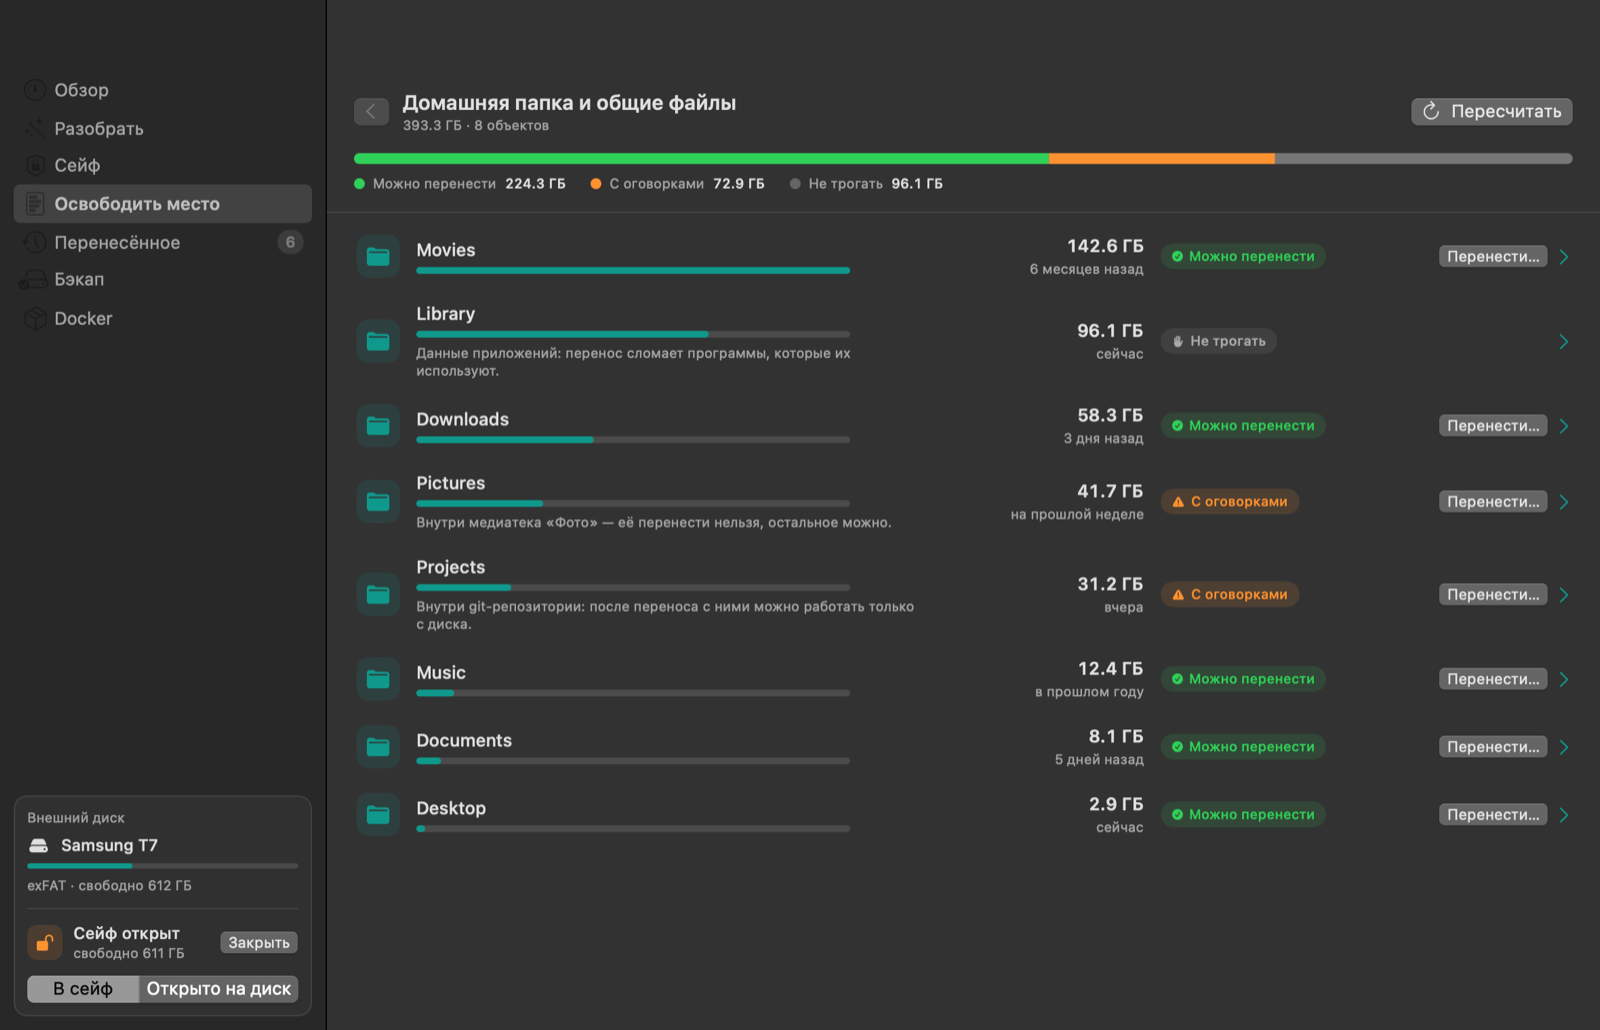
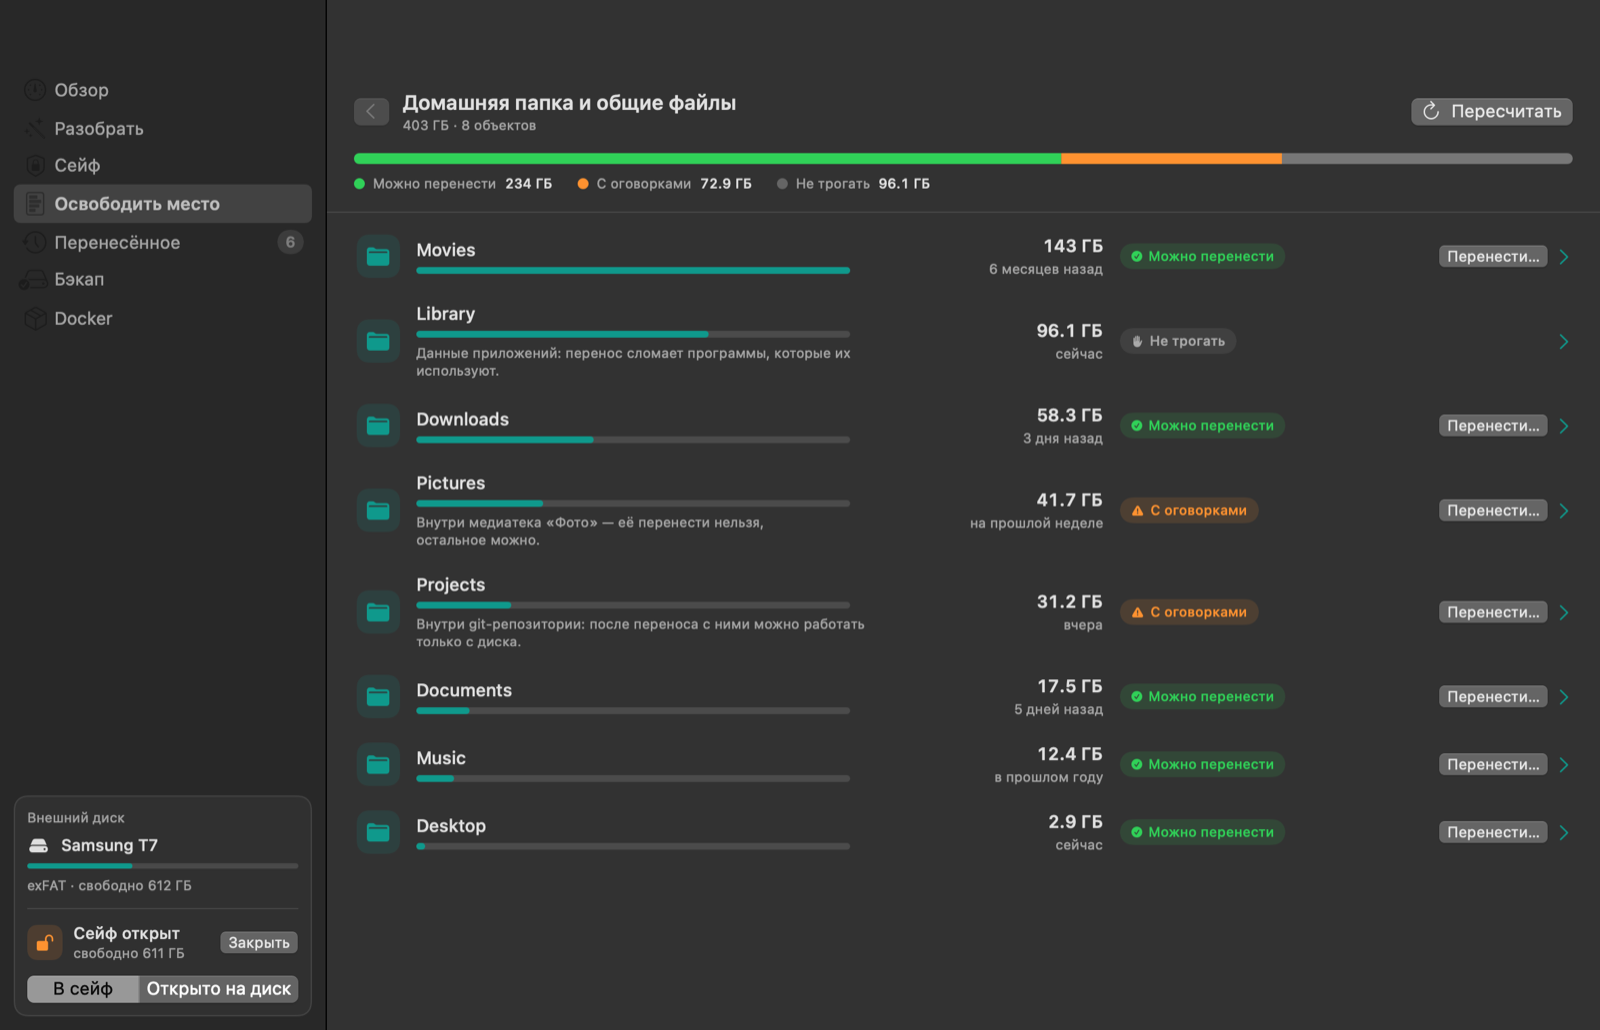
Размеры с одной точностью: до 100 — один знак, от 100 — целые; исключение для имён-идентификаторов в ~/Library — только в папках приложений; снимки

diff --git a/Sources/OffloadCore/Format.swift b/Sources/OffloadCore/Format.swift
@@ -1,13 +1,38 @@
 import Foundation
 
 public enum Format {
-    public static func bytes(_ count: Int64) -> String {
-        ByteCountFormatter.string(fromByteCount: count, countStyle: .file)
-    }
+    /// Размер на диске — десятичными единицами, как в Finder: 24.5 ГБ.
+    ///
+    /// Точность везде одна: до 100 — один знак после точки, от 100 — целые. ByteCountFormatter
+    /// показывал рядом «4.81 ГБ», «24.5 ГБ» и «168.01 ГБ», и суммы на одном экране читались вразнобой.
+    public static func bytes(_ count: Int64) -> String { size(count, base: 1000) }
 
-    /// Оперативная память считается двоичными единицами: 18 ГБ, а не 19,33.
-    public static func memory(_ count: UInt64) -> String {
-        ByteCountFormatter.string(fromByteCount: Int64(clamping: count), countStyle: .memory)
+    /// Оперативная память считается двоичными единицами: 18 ГБ, а не 19.3.
+    public static func memory(_ count: UInt64) -> String { size(Int64(clamping: count), base: 1024) }
+
+    static let units = ["Б", "КБ", "МБ", "ГБ", "ТБ", "ПБ"]
+
+    static func size(_ count: Int64, base: Double) -> String {
+        let sign = count < 0 ? "−" : ""
+        var value = Double(count.magnitude)
+        var unit = 0
+        while value >= base, unit < units.count - 1 {
+            value /= base
+            unit += 1
+        }
+        // Округление могло дать ровно base («999.96 МБ» → «1000.0») — тогда это уже следующая единица.
+        if unit < units.count - 1, (value * 10).rounded() / 10 >= base {
+            value /= base
+            unit += 1
+        }
+        let text: String
+        if unit == 0 || value >= 100 {
+            text = String(Int(value.rounded()))
+        } else {
+            let rounded = (value * 10).rounded() / 10
+            text = rounded == rounded.rounded() ? String(Int(rounded)) : String(format: "%.1f", locale: Locale(identifier: "en_US_POSIX"), rounded)
+        }
+        return "\(sign)\(text) \(units[unit])"
     }
 
     public static func relative(_ date: Date, now: Date = Date()) -> String {

diff --git a/Sources/OffloadCore/Safety.swift b/Sources/OffloadCore/Safety.swift
@@ -128,6 +128,10 @@ public struct SafetyRules: Sendable {
         return .safe
     }
 
+    /// Папки ~/Library, где приложения называют свои папки идентификаторами.
+    static let appFolderParents: Set<String> = ["Containers", "Group Containers", "Caches", "Application Support",
+                                                "Application Scripts", "HTTPStorages", "WebKit", "Saved Application State"]
+
     /// Идентификатор приложения или группы: «com.utmapp.UTM», «WDNLXAD4W8.com.utmapp.UTM».
     static func isIdentifier(_ name: String) -> Bool {
         !name.contains(" ") && name.split(separator: ".", omittingEmptySubsequences: false).count >= 3
@@ -157,9 +161,11 @@ public struct SafetyRules: Sendable {
             return .blocked("Виртуальная машина приложения Claude — она нужна ему для работы.")
         }
         // Пакеты в ~/Library запрещены, как и везде. Кроме имени сразу под Containers, Caches
-        // и т. п., похожего на идентификатор: это папка приложения, а не пакет.
+        // и т. п., похожего на идентификатор: это папка приложения, а не пакет. Только там:
+        // в Logs и прочих местах, откуда переносить можно, «a.b.utm» — машина, и её не трогаем.
         if let bundle = parts.indices.first(where: { index in
-            Self.isRegisteredBundle(parts[index]) && !(index == 2 && Self.isIdentifier(parts[index]))
+            Self.isRegisteredBundle(parts[index])
+                && !(index == 2 && Self.appFolderParents.contains(parts[1]) && Self.isIdentifier(parts[index]))
         }) {
             return Self.bundleBlocked(parts[bundle])
         }

diff --git a/Sources/OffloadChecks/ChecksInterface.swift b/Sources/OffloadChecks/ChecksInterface.swift
@@ -49,3 +49,20 @@ func checksInterface() {
               "после отмены на месте оригинала ничего не создано")
     }
 }
+
+/// Размеры на экране — с одной точностью: до 100 один знак, от 100 целые.
+func checksFormat() {
+    section("Формат размеров") {
+        check(Format.bytes(4_810_000_000) == "4.8 ГБ", "до 100 — один знак: \(Format.bytes(4_810_000_000))")
+        check(Format.bytes(24_500_000_000) == "24.5 ГБ", "24.5 ГБ")
+        check(Format.bytes(168_010_000_000) == "168 ГБ", "от 100 — целые: \(Format.bytes(168_010_000_000))")
+        check(Format.bytes(612_000_000_000) == "612 ГБ", "612 ГБ")
+        check(Format.bytes(9_000_000_000) == "9 ГБ", "ровное число — без «.0»")
+        check(Format.bytes(999_960_000) == "1 ГБ", "999.96 МБ округляется до 1 ГБ, а не «1000 МБ»: \(Format.bytes(999_960_000))")
+        check(Format.bytes(270_000) == "270 КБ", "270 КБ")
+        check(Format.bytes(512) == "512 Б" && Format.bytes(0) == "0 Б", "байты — целыми")
+        check(Format.bytes(1_000_000_000_000) == "1 ТБ", "1 ТБ")
+        check(Format.bytes(-64_000_000) == "−64 МБ", "отрицательное — со знаком минус")
+        check(Format.memory(16 << 30) == "16 ГБ" && Format.memory(1_148_846_080) == "1.1 ГБ", "память — двоичными единицами")
+    }
+}

diff --git a/Sources/OffloadChecks/ChecksAppData.swift b/Sources/OffloadChecks/ChecksAppData.swift
@@ -57,6 +57,11 @@ func checksAppData() {
         check(kind("Downloads/vms/Debian.utm") == .utm, "машина, открытая в UTM из другой папки")
         check(kind("Library/Caches/com.utmapp.UTM") == nil, "кеш UTM — не машина, хоть и оканчивается на «.UTM»")
         check(kind("Library/Group Containers/WDNLXAD4W8.com.utmapp.UTM") == nil, "группа приложений UTM — не машина")
+        let rules = SafetyRules(home: home)
+        func blocked(_ relative: String) -> Bool { rules.verdict(for: home.appendingPathComponent(relative), content: nil).isBlocked }
+        check(blocked("Library/Logs/my.test.utm"), "машина с именем-идентификатором в Logs не переносится: исключение — только для папок приложений")
+        check(!blocked("Library/Logs/app.log"), "обычный лог в Logs переносить по-прежнему можно")
+        check(blocked("Library/Containers/com.utmapp.UTM"), "папка UTM по-прежнему не переносится")
         check(kind("Library/Containers/com.docker.docker-helper") == nil, "похожее имя — не Docker")
         check(kind("Library/Containers") == nil && kind("Downloads") == nil, "обычные папки — ничьи")
     }

diff --git a/Sources/OffloadChecks/main.swift b/Sources/OffloadChecks/main.swift
@@ -652,6 +652,7 @@ checksHardenLocal()
 checksHardenRestore()
 checksSafe()
 checksCleanup()
+checksFormat()
 checksQuestions()
 section("Разбор: в Корзине — тот самый файл") { try checksTrashIdentity() }
 if env["OFFLOAD_SKIP_INTEGRATION"] != "1" {
